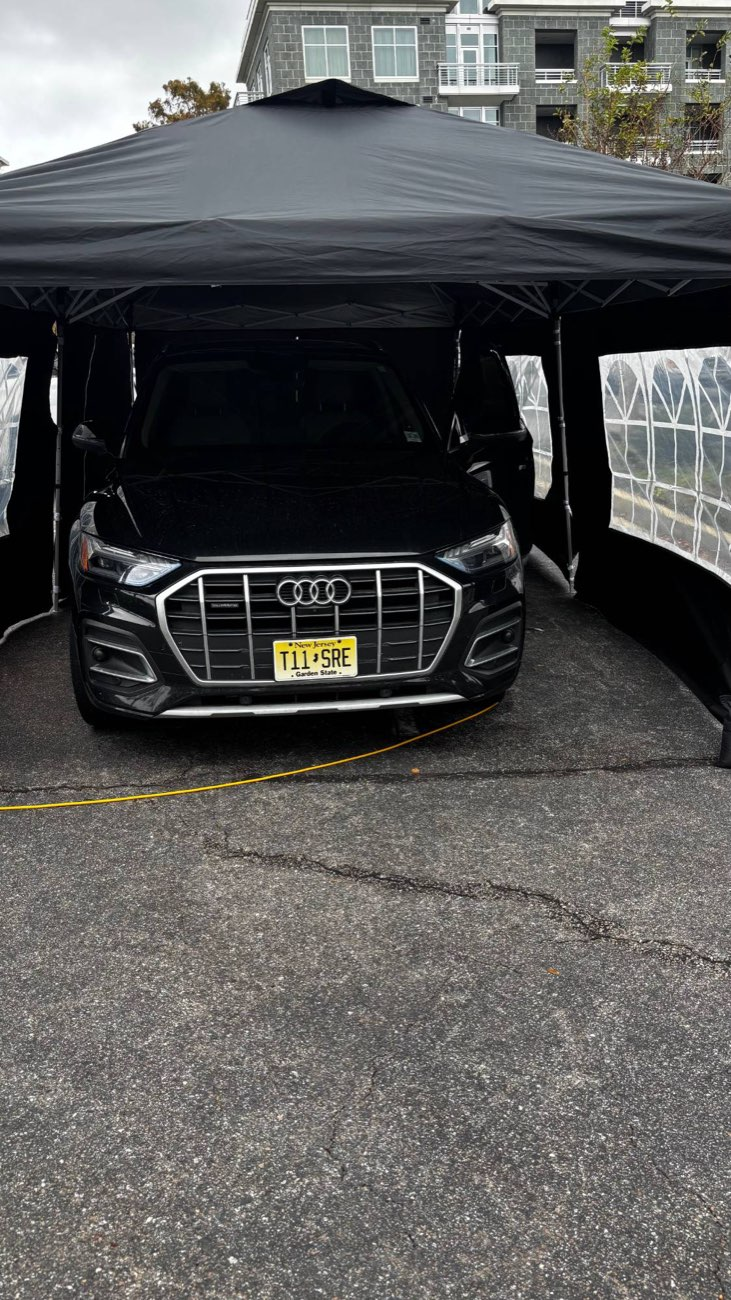
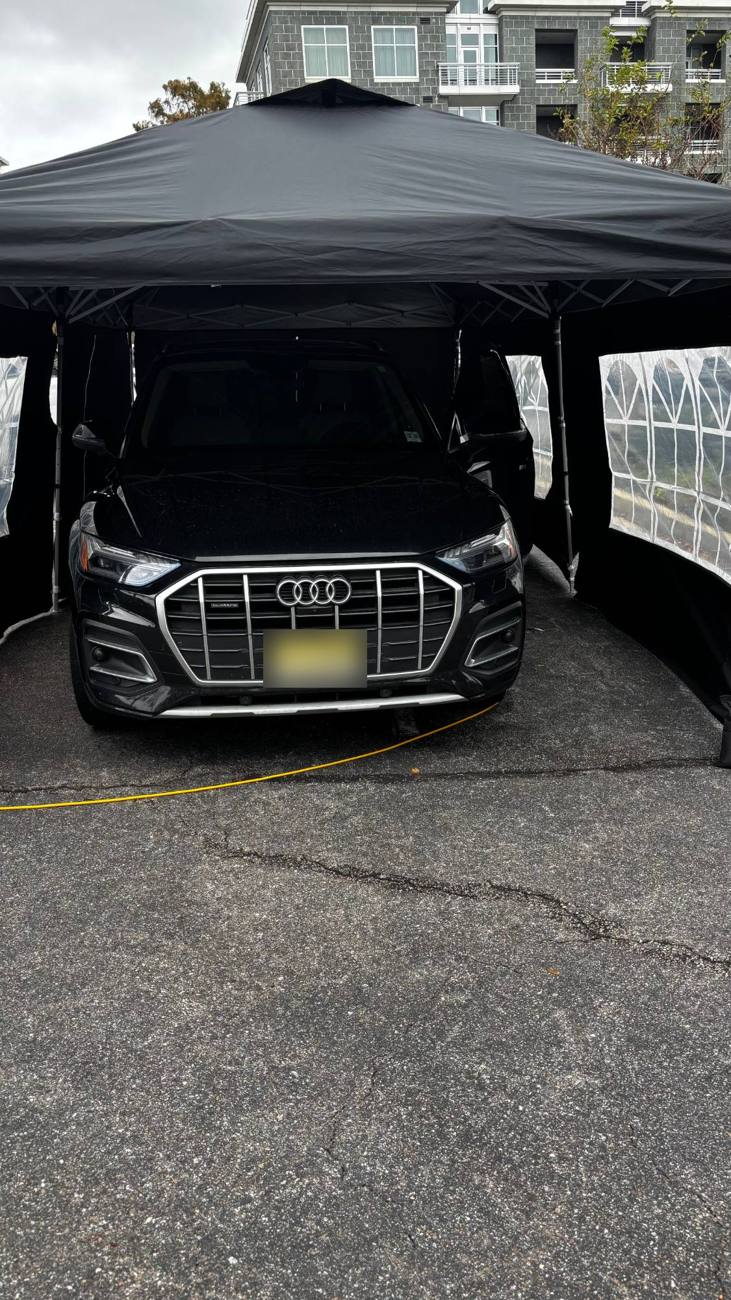
Blur client license plate on Audi tent photo

diff --git a/index.html b/index.html
@@ -33,7 +33,7 @@
   <link rel="preconnect" href="https://fonts.gstatic.com" crossorigin />
   <link href="https://fonts.googleapis.com/css2?family=Cormorant+Garamond:wght@400;500;600;700&family=Inter:wght@300;400;500;600;700&display=swap" rel="stylesheet" />
 
-  <link rel="stylesheet" href="css/styles.css?v=11" />
+  <link rel="stylesheet" href="css/styles.css?v=12" />
 
   <!-- ===================== Local Business Schema (SEO) ===================== -->
   <script type="application/ld+json">
@@ -268,7 +268,7 @@
           <a data-instagram href="#"><img src="assets/foam-1.jpg" alt="Foam wash in progress" loading="lazy" /></a>
           <a data-instagram href="#"><img src="assets/paint-4.jpg" alt="Paint correction result" loading="lazy" /></a>
           <a data-instagram href="#"><img src="assets/tint-1.jpg" alt="Window tint install" loading="lazy" /></a>
-          <a data-instagram href="#"><img src="assets/audi-tent.jpg" alt="Audi Q5 under the MotorsLuxe mobile detail tent" loading="lazy" /></a>
+          <a data-instagram href="#"><img src="assets/audi-tent.jpg?v=2" alt="Audi Q5 under the MotorsLuxe mobile detail tent" loading="lazy" /></a>
         </div>
 
         <div class="insta-cta reveal">
@@ -444,8 +444,8 @@
   <!-- ===================== Scripts ===================== -->
   <script src="https://cdnjs.cloudflare.com/ajax/libs/gsap/3.12.5/gsap.min.js" defer></script>
   <script src="https://cdnjs.cloudflare.com/ajax/libs/gsap/3.12.5/ScrollTrigger.min.js" defer></script>
-  <script src="js/partials.js?v=11" defer></script>
-  <script src="js/site-config.js?v=11" defer></script>
-  <script src="js/main.js?v=11" defer></script>
+  <script src="js/partials.js?v=12" defer></script>
+  <script src="js/site-config.js?v=12" defer></script>
+  <script src="js/main.js?v=12" defer></script>
 </body>
 </html>

diff --git a/detailing-automobile.html b/detailing-automobile.html
@@ -18,7 +18,7 @@
   <link rel="preconnect" href="https://fonts.googleapis.com" />
   <link rel="preconnect" href="https://fonts.gstatic.com" crossorigin />
   <link href="https://fonts.googleapis.com/css2?family=Cormorant+Garamond:wght@400;500;600;700&family=Inter:wght@300;400;500;600;700&display=swap" rel="stylesheet" />
-  <link rel="stylesheet" href="css/styles.css?v=11" />
+  <link rel="stylesheet" href="css/styles.css?v=12" />
 </head>
 <body>
   <a class="skip-link" href="#main">Skip to content</a>
@@ -146,8 +146,8 @@
 
   <script src="https://cdnjs.cloudflare.com/ajax/libs/gsap/3.12.5/gsap.min.js" defer></script>
   <script src="https://cdnjs.cloudflare.com/ajax/libs/gsap/3.12.5/ScrollTrigger.min.js" defer></script>
-  <script src="js/partials.js?v=11" defer></script>
-  <script src="js/site-config.js?v=11" defer></script>
-  <script src="js/main.js?v=11" defer></script>
+  <script src="js/partials.js?v=12" defer></script>
+  <script src="js/site-config.js?v=12" defer></script>
+  <script src="js/main.js?v=12" defer></script>
 </body>
 </html>

diff --git a/detailing-golf-carts.html b/detailing-golf-carts.html
@@ -18,7 +18,7 @@
   <link rel="preconnect" href="https://fonts.googleapis.com" />
   <link rel="preconnect" href="https://fonts.gstatic.com" crossorigin />
   <link href="https://fonts.googleapis.com/css2?family=Cormorant+Garamond:wght@400;500;600;700&family=Inter:wght@300;400;500;600;700&display=swap" rel="stylesheet" />
-  <link rel="stylesheet" href="css/styles.css?v=11" />
+  <link rel="stylesheet" href="css/styles.css?v=12" />
 </head>
 <body>
   <a class="skip-link" href="#main">Skip to content</a>
@@ -115,8 +115,8 @@
 
   <script src="https://cdnjs.cloudflare.com/ajax/libs/gsap/3.12.5/gsap.min.js" defer></script>
   <script src="https://cdnjs.cloudflare.com/ajax/libs/gsap/3.12.5/ScrollTrigger.min.js" defer></script>
-  <script src="js/partials.js?v=11" defer></script>
-  <script src="js/site-config.js?v=11" defer></script>
-  <script src="js/main.js?v=11" defer></script>
+  <script src="js/partials.js?v=12" defer></script>
+  <script src="js/site-config.js?v=12" defer></script>
+  <script src="js/main.js?v=12" defer></script>
 </body>
 </html>

diff --git a/detailing-off-road.html b/detailing-off-road.html
@@ -18,7 +18,7 @@
   <link rel="preconnect" href="https://fonts.googleapis.com" />
   <link rel="preconnect" href="https://fonts.gstatic.com" crossorigin />
   <link href="https://fonts.googleapis.com/css2?family=Cormorant+Garamond:wght@400;500;600;700&family=Inter:wght@300;400;500;600;700&display=swap" rel="stylesheet" />
-  <link rel="stylesheet" href="css/styles.css?v=11" />
+  <link rel="stylesheet" href="css/styles.css?v=12" />
 </head>
 <body>
   <a class="skip-link" href="#main">Skip to content</a>
@@ -115,8 +115,8 @@
 
   <script src="https://cdnjs.cloudflare.com/ajax/libs/gsap/3.12.5/gsap.min.js" defer></script>
   <script src="https://cdnjs.cloudflare.com/ajax/libs/gsap/3.12.5/ScrollTrigger.min.js" defer></script>
-  <script src="js/partials.js?v=11" defer></script>
-  <script src="js/site-config.js?v=11" defer></script>
-  <script src="js/main.js?v=11" defer></script>
+  <script src="js/partials.js?v=12" defer></script>
+  <script src="js/site-config.js?v=12" defer></script>
+  <script src="js/main.js?v=12" defer></script>
 </body>
 </html>

diff --git a/services-headlight-restoration.html b/services-headlight-restoration.html
@@ -18,7 +18,7 @@
   <link rel="preconnect" href="https://fonts.googleapis.com" />
   <link rel="preconnect" href="https://fonts.gstatic.com" crossorigin />
   <link href="https://fonts.googleapis.com/css2?family=Cormorant+Garamond:wght@400;500;600;700&family=Inter:wght@300;400;500;600;700&display=swap" rel="stylesheet" />
-  <link rel="stylesheet" href="css/styles.css?v=11" />
+  <link rel="stylesheet" href="css/styles.css?v=12" />
 </head>
 <body>
   <a class="skip-link" href="#main">Skip to content</a>
@@ -113,8 +113,8 @@
 
   <script src="https://cdnjs.cloudflare.com/ajax/libs/gsap/3.12.5/gsap.min.js" defer></script>
   <script src="https://cdnjs.cloudflare.com/ajax/libs/gsap/3.12.5/ScrollTrigger.min.js" defer></script>
-  <script src="js/partials.js?v=11" defer></script>
-  <script src="js/site-config.js?v=11" defer></script>
-  <script src="js/main.js?v=11" defer></script>
+  <script src="js/partials.js?v=12" defer></script>
+  <script src="js/site-config.js?v=12" defer></script>
+  <script src="js/main.js?v=12" defer></script>
 </body>
 </html>

diff --git a/services-paint-correction.html b/services-paint-correction.html
@@ -18,7 +18,7 @@
   <link rel="preconnect" href="https://fonts.googleapis.com" />
   <link rel="preconnect" href="https://fonts.gstatic.com" crossorigin />
   <link href="https://fonts.googleapis.com/css2?family=Cormorant+Garamond:wght@400;500;600;700&family=Inter:wght@300;400;500;600;700&display=swap" rel="stylesheet" />
-  <link rel="stylesheet" href="css/styles.css?v=11" />
+  <link rel="stylesheet" href="css/styles.css?v=12" />
 </head>
 <body>
   <a class="skip-link" href="#main">Skip to content</a>
@@ -135,8 +135,8 @@
 
   <script src="https://cdnjs.cloudflare.com/ajax/libs/gsap/3.12.5/gsap.min.js" defer></script>
   <script src="https://cdnjs.cloudflare.com/ajax/libs/gsap/3.12.5/ScrollTrigger.min.js" defer></script>
-  <script src="js/partials.js?v=11" defer></script>
-  <script src="js/site-config.js?v=11" defer></script>
-  <script src="js/main.js?v=11" defer></script>
+  <script src="js/partials.js?v=12" defer></script>
+  <script src="js/site-config.js?v=12" defer></script>
+  <script src="js/main.js?v=12" defer></script>
 </body>
 </html>

diff --git a/services-window-tint.html b/services-window-tint.html
@@ -18,7 +18,7 @@
   <link rel="preconnect" href="https://fonts.googleapis.com" />
   <link rel="preconnect" href="https://fonts.gstatic.com" crossorigin />
   <link href="https://fonts.googleapis.com/css2?family=Cormorant+Garamond:wght@400;500;600;700&family=Inter:wght@300;400;500;600;700&display=swap" rel="stylesheet" />
-  <link rel="stylesheet" href="css/styles.css?v=11" />
+  <link rel="stylesheet" href="css/styles.css?v=12" />
 </head>
 <body>
   <a class="skip-link" href="#main">Skip to content</a>
@@ -116,8 +116,8 @@
 
   <script src="https://cdnjs.cloudflare.com/ajax/libs/gsap/3.12.5/gsap.min.js" defer></script>
   <script src="https://cdnjs.cloudflare.com/ajax/libs/gsap/3.12.5/ScrollTrigger.min.js" defer></script>
-  <script src="js/partials.js?v=11" defer></script>
-  <script src="js/site-config.js?v=11" defer></script>
-  <script src="js/main.js?v=11" defer></script>
+  <script src="js/partials.js?v=12" defer></script>
+  <script src="js/site-config.js?v=12" defer></script>
+  <script src="js/main.js?v=12" defer></script>
 </body>
 </html>

diff --git a/gallery.html b/gallery.html
@@ -18,7 +18,7 @@
   <link rel="preconnect" href="https://fonts.googleapis.com" />
   <link rel="preconnect" href="https://fonts.gstatic.com" crossorigin />
   <link href="https://fonts.googleapis.com/css2?family=Cormorant+Garamond:wght@400;500;600;700&family=Inter:wght@300;400;500;600;700&display=swap" rel="stylesheet" />
-  <link rel="stylesheet" href="css/styles.css?v=11" />
+  <link rel="stylesheet" href="css/styles.css?v=12" />
 </head>
 <body>
   <a class="skip-link" href="#main">Skip to content</a>
@@ -72,8 +72,8 @@
 
   <script src="https://cdnjs.cloudflare.com/ajax/libs/gsap/3.12.5/gsap.min.js" defer></script>
   <script src="https://cdnjs.cloudflare.com/ajax/libs/gsap/3.12.5/ScrollTrigger.min.js" defer></script>
-  <script src="js/partials.js?v=11" defer></script>
-  <script src="js/site-config.js?v=11" defer></script>
-  <script src="js/main.js?v=11" defer></script>
+  <script src="js/partials.js?v=12" defer></script>
+  <script src="js/site-config.js?v=12" defer></script>
+  <script src="js/main.js?v=12" defer></script>
 </body>
 </html>

diff --git a/our-story.html b/our-story.html
@@ -18,7 +18,7 @@
   <link rel="preconnect" href="https://fonts.googleapis.com" />
   <link rel="preconnect" href="https://fonts.gstatic.com" crossorigin />
   <link href="https://fonts.googleapis.com/css2?family=Cormorant+Garamond:wght@400;500;600;700&family=Inter:wght@300;400;500;600;700&display=swap" rel="stylesheet" />
-  <link rel="stylesheet" href="css/styles.css?v=11" />
+  <link rel="stylesheet" href="css/styles.css?v=12" />
 </head>
 <body>
   <a class="skip-link" href="#main">Skip to content</a>
@@ -97,8 +97,8 @@
 
   <script src="https://cdnjs.cloudflare.com/ajax/libs/gsap/3.12.5/gsap.min.js" defer></script>
   <script src="https://cdnjs.cloudflare.com/ajax/libs/gsap/3.12.5/ScrollTrigger.min.js" defer></script>
-  <script src="js/partials.js?v=11" defer></script>
-  <script src="js/site-config.js?v=11" defer></script>
-  <script src="js/main.js?v=11" defer></script>
+  <script src="js/partials.js?v=12" defer></script>
+  <script src="js/site-config.js?v=12" defer></script>
+  <script src="js/main.js?v=12" defer></script>
 </body>
 </html>

diff --git a/privacy.html b/privacy.html
@@ -10,7 +10,7 @@
   <link rel="preconnect" href="https://fonts.googleapis.com" />
   <link rel="preconnect" href="https://fonts.gstatic.com" crossorigin />
   <link href="https://fonts.googleapis.com/css2?family=Cormorant+Garamond:wght@400;600;700&family=Inter:wght@300;400;500;600&display=swap" rel="stylesheet" />
-  <link rel="stylesheet" href="css/styles.css?v=11" />
+  <link rel="stylesheet" href="css/styles.css?v=12" />
   <style>
     .legal { padding: clamp(120px, 16vh, 200px) 0 100px; max-width: 820px; }
     .legal h1 { font-family: var(--serif); font-size: clamp(2.2rem, 6vw, 3.6rem); margin-bottom: 1rem; }

diff --git a/js/main.js b/js/main.js
@@ -65,7 +65,7 @@
     { label: "Interior detail", cat: "interior", size: "span-4", img: "assets/interior-2.jpg" },
     { label: "Tint application", cat: "exterior", size: "span-4", img: "assets/tint-3.jpg" },
     { label: "Yukon side profile", cat: "paint", size: "span-4", img: "assets/gmc-2.jpg" },
-    { label: "Mobile detail tent", cat: "exterior", size: "span-8", img: "assets/audi-tent.jpg" },
+    { label: "Mobile detail tent", cat: "exterior", size: "span-8", img: "assets/audi-tent.jpg?v=2" },
   ];
 
   /* ============================================================= CONFIG WIRING */
